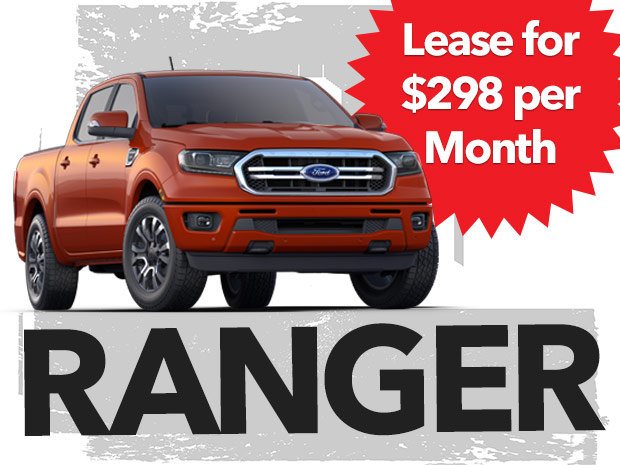
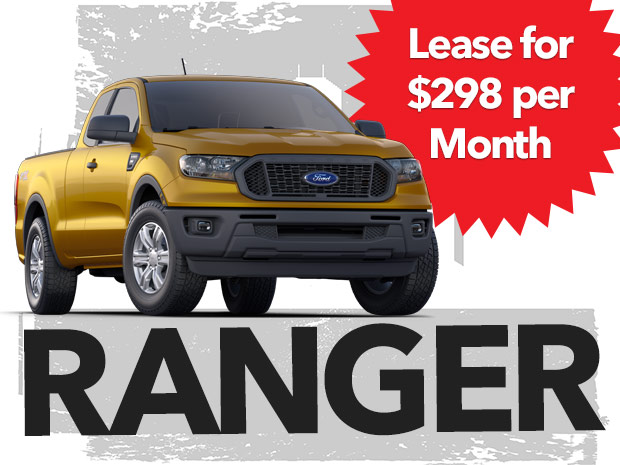
finalizing the newsletter

Changed region(s): [[0.0, 0.0301, 0.95, 0.6925]]

diff --git a/index.php b/index.php
@@ -9,17 +9,7 @@
     <!--[if mso]> <xml> <o:OfficeDocumentSettings> <o:AllowPNG/> <o:PixelsPerInch>96</o:PixelsPerInch> </o:OfficeDocumentSettings> </xml><style>.spacer,.divider{mso-line-height-rule:exactly}td,th,div,p,a,h1,h2,h3,h4,h5,h6{font-size:13px;line-height:23px;font-family:"Segoe UI",Helvetica,Arial,sans-serif}</style><![endif]-->
     <style type="text/css">
       @import url('https://fonts.googleapis.com/css?family=Montserrat:400,500,700|Open+Sans:400,500,700');
-      a {
-      	color: #1779ba;
-      	text-decoration: underline;
-      }
-      a:hover,
-      a:active,
-      a:focus {
-      	color: #1779ba;
-      	text-decoration: underline;
-      }
-      @media only screen{.serif{font-family:'Montserrat',sans-serif!important}.sans-serif{font-family:'Open Sans',sans-serif!important}.column,th,td,div,p{font-family:-apple-system,system-ui,BlinkMacSystemFont,"Segoe UI","Roboto",Helvetica,Arial,sans-serif}}#outlook a{padding:0}table{border-collapse:collapse}img{border:0;display:block;line-height:100%}.column,th,td,div,p{font-size:13px;line-height:23px}.wrapper{min-width:700px}.row{margin:0 auto;width:700px}.row .row, th .row{width:100%}.menu-item{display:inline-block}.hover-shrink:hover{transform:scale(0.7)}@media only screen and (max-width: 699px){table.button{margin:0 !important}.spacer.tagline{font-size:32px !important;text-align:center !important;padding-top:24px !important}.footer-logo{margin:0 auto !important}.wrapper{min-width:100% !important}.row{width:90% !important}.row .row{width:100% !important}.column{box-sizing:border-box;display:inline-block !important;line-height:inherit !important;width:100% !important;text-align:left !important;word-break:break-word;-webkit-text-size-adjust:100%}.mobile-1{max-width:8.33333%}.mobile-2{max-width:16.66667%}.mobile-3{max-width:25%}.mobile-4{max-width:33.33333%}.mobile-5{max-width:41.66667%}.mobile-6{max-width:50%}.mobile-7{max-width:58.33333%}.mobile-8{max-width:66.66667%}.mobile-9{max-width:75%}.mobile-10{max-width:83.33333%}.mobile-11{max-width:91.66667%}.mobile-12{padding-right:30px !important;padding-left:30px !important}.mobile-offset-1{margin-left:8.33333% !important}.mobile-offset-2{margin-left:16.66667% !important}.mobile-offset-3{margin-left:25% !important}.mobile-offset-4{margin-left:33.33333% !important}.mobile-offset-5{margin-left:41.66667% !important}.mobile-offset-6{margin-left:50% !important}.mobile-offset-7{margin-left:58.33333% !important}.mobile-offset-8{margin-left:66.66667% !important}.mobile-offset-9{margin-left:75% !important}.mobile-offset-10{margin-left:83.33333% !important}.mobile-offset-11{margin-left:91.66667% !important}.has-columns{padding-right:20px !important;padding-left:20px !important}.has-columns .column{padding-right:10px !important;padding-left:10px !important}.mobile-collapsed .column{padding-left:0 !important;padding-right:0 !important}img{width:100% !important;height:auto !important}.mobile-center{display:table !important;float:none;margin-left:auto !important;margin-right:auto !important}.mobile-left{float:none;margin:0 !important}.mobile-text-center{text-align:center !important}.mobile-text-left{text-align:left !important}.mobile-text-right{text-align:right !important}.show-on-mobile{display:table !important;overflow:visible !important;line-height:inherit !important}.hide-on-mobile{display:none !important;width:0;overflow:hidden}.mobile-full-width{display:table;width:100% !important}.mobile-first{display:table-header-group !important}.mobile-intermediate{display:table-row !important}.mobile-last{display:table-footer-group !important}.mobile-first th, .mobile-intermediate th, .mobile-last th{padding-left:30px !important;padding-right:30px !important}.menu[align="center"],.menu.mobile-center{width:auto !important}.menu-item{width:auto !important;display:inline-block !important;padding:0 10px 0 !important}.menu.mobile-vertical .menu-item{display:block !important;padding:0 0 15px 0 !important}.hamburger-menu,.accordion-content{max-height:0;overflow:hidden;position:relative;-ms-transition:max-height .25s ease-in-out;-webkit-transition:max-height .25s ease-in-out;transition:max-height .25s ease-in-out}.menu-trigger img{display:block;margin:0 auto !important;float:none !important;max-height:none !important}.menu-trigger:hover+.hamburger-menu,.hamburger-menu:hover{max-height:300px}.accordion-item:hover .accordion-content{max-height:999px}u ~ div .wrapper .menu-trigger img{display:none}u ~ div .wrapper .hamburger-menu, u ~ div .wrapper .accordion-content{max-height:none}u ~ div .wrapper .menu .menu-item{display:inline-block !important;padding:0 10px !important}u ~ div .wrapper .menu.mobile-vertical .menu-item{display:block !important}.h1{font-size:42px !important}.h2{font-size:28px !important}.h3{font-size:16px !important}.spacer{height:30px;line-height:100% !important;font-size:100% !important}.divider th{height:60px}.mobile-padding-top{padding-top:30px !important}.mobile-padding-top-mini{padding-top:10px !important}.mobile-padding-bottom{padding-bottom:30px !important}.mobile-padding-bottom-mini{padding-bottom:10px !important}.mobile-margin-top{margin-top:30px !important}.mobile-margin-top-mini{margin-top:10px !important}.mobile-margin-bottom{margin-bottom:30px !important}.mobile-margin-bottom-mini{margin-bottom:10px !important}.no-border-on-mobile{border:none !important}.overlay-bg{display:none !important}}
+      a{color:#1779ba;text-decoration:underline}a:hover,a:active,a:focus{color:#1779ba;text-decoration:underline}@media only screen{.serif{font-family:'Montserrat',sans-serif!important}.sans-serif{font-family:'Open Sans',sans-serif!important}.column,th,td,div,p{font-family:-apple-system,system-ui,BlinkMacSystemFont,"Segoe UI","Roboto",Helvetica,Arial,sans-serif}}#outlook a{padding:0}table{border-collapse:collapse}img{border:0;display:block;line-height:100%}.column,th,td,div,p{font-size:13px;line-height:23px}.wrapper{min-width:700px}.row{margin:0 auto;width:700px}.row .row, th .row{width:100%}.menu-item{display:inline-block}.hover-shrink:hover{transform:scale(0.7)}@media only screen and (max-width: 699px){table.button{margin:0 !important}.spacer.tagline{font-size:32px !important;text-align:center !important;padding-top:24px !important}.footer-logo{margin:0 auto !important}.wrapper{min-width:100% !important}.row{width:90% !important}.row .row{width:100% !important}.column{box-sizing:border-box;display:inline-block !important;line-height:inherit !important;width:100% !important;text-align:left !important;word-break:break-word;-webkit-text-size-adjust:100%}.mobile-1{max-width:8.33333%}.mobile-2{max-width:16.66667%}.mobile-3{max-width:25%}.mobile-4{max-width:33.33333%}.mobile-5{max-width:41.66667%}.mobile-6{max-width:50%}.mobile-7{max-width:58.33333%}.mobile-8{max-width:66.66667%}.mobile-9{max-width:75%}.mobile-10{max-width:83.33333%}.mobile-11{max-width:91.66667%}.mobile-12{padding-right:30px !important;padding-left:30px !important}.mobile-offset-1{margin-left:8.33333% !important}.mobile-offset-2{margin-left:16.66667% !important}.mobile-offset-3{margin-left:25% !important}.mobile-offset-4{margin-left:33.33333% !important}.mobile-offset-5{margin-left:41.66667% !important}.mobile-offset-6{margin-left:50% !important}.mobile-offset-7{margin-left:58.33333% !important}.mobile-offset-8{margin-left:66.66667% !important}.mobile-offset-9{margin-left:75% !important}.mobile-offset-10{margin-left:83.33333% !important}.mobile-offset-11{margin-left:91.66667% !important}.has-columns{padding-right:20px !important;padding-left:20px !important}.has-columns .column{padding-right:10px !important;padding-left:10px !important}.mobile-collapsed .column{padding-left:0 !important;padding-right:0 !important}img{width:100% !important;height:auto !important}.mobile-center{display:table !important;float:none;margin-left:auto !important;margin-right:auto !important}.mobile-left{float:none;margin:0 !important}.mobile-text-center{text-align:center !important}.mobile-text-left{text-align:left !important}.mobile-text-right{text-align:right !important}.show-on-mobile{display:table !important;overflow:visible !important;line-height:inherit !important}.hide-on-mobile{display:none !important;width:0;overflow:hidden}.mobile-full-width{display:table;width:100% !important}.mobile-first{display:table-header-group !important}.mobile-intermediate{display:table-row !important}.mobile-last{display:table-footer-group !important}.mobile-first th, .mobile-intermediate th, .mobile-last th{padding-left:30px !important;padding-right:30px !important}.menu[align="center"],.menu.mobile-center{width:auto !important}.menu-item{width:auto !important;display:inline-block !important;padding:0 10px 0 !important}.menu.mobile-vertical .menu-item{display:block !important;padding:0 0 15px 0 !important}.hamburger-menu,.accordion-content{max-height:0;overflow:hidden;position:relative;-ms-transition:max-height .25s ease-in-out;-webkit-transition:max-height .25s ease-in-out;transition:max-height .25s ease-in-out}.menu-trigger img{display:block;margin:0 auto !important;float:none !important;max-height:none !important}.menu-trigger:hover+.hamburger-menu,.hamburger-menu:hover{max-height:300px}.accordion-item:hover .accordion-content{max-height:999px}u ~ div .wrapper .menu-trigger img{display:none}u ~ div .wrapper .hamburger-menu, u ~ div .wrapper .accordion-content{max-height:none}u ~ div .wrapper .menu .menu-item{display:inline-block !important;padding:0 10px !important}u ~ div .wrapper .menu.mobile-vertical .menu-item{display:block !important}.h1{font-size:42px !important}.h2{font-size:28px !important}.h3{font-size:16px !important}.spacer{height:30px;line-height:100% !important;font-size:100% !important}.divider th{height:60px}.mobile-padding-top{padding-top:30px !important}.mobile-padding-top-mini{padding-top:10px !important}.mobile-padding-bottom{padding-bottom:30px !important}.mobile-padding-bottom-mini{padding-bottom:10px !important}.mobile-margin-top{margin-top:30px !important}.mobile-margin-top-mini{margin-top:10px !important}.mobile-margin-bottom{margin-bottom:30px !important}.mobile-margin-bottom-mini{margin-bottom:10px !important}.no-border-on-mobile{border:none !important}.overlay-bg{display:none !important}}
     </style>
   </head>
   <body style="box-sizing:border-box;margin:0;padding:0;width:100%;-webkit-font-smoothing:antialiased;">
@@ -104,7 +94,7 @@
                     <th valign="top" class="column" width="310" style="padding-right: 10px; font-weight: 400; text-align: left;">
                       <div style="margin-bottom: 20px;">
                         <a href="https://www.freewayford.net/newspecials.html" target="_blank">
-                          <img src="http://placehold.it/1024x768" alt="Visa gift card with $500.00 holiday cash." width="310" style="border: 0; width: 100%; max-width: 310px;">
+                          <img src="./images/f150.jpg" alt="F150 XLT" width="310" style="border: 0; width: 100%; max-width: 310px;">
                         </a>
                       </div> <a class="serif" href="https://www.freewayford.net/newspecials.html" target="_blank" style="color: #3b5a6e; font-size: 18px; font-weight: 400; line-height: 1.5; text-decoration: none;"><span style="color: #b01b15;font-size: 24px; font-weight: 500;">OHDOMETER!</span><br>The Ford F150 XLT takes mud and crud with a shrug. It outhauls outsmarts, and outlives the competition — there are more F150s on the road with 250,000 miles+ of bragging rights than any other brand. Oh yeah!</a>
                       <br>
@@ -125,7 +115,7 @@
                     <th valign="top" class="column" width="310" style="padding-left: 10px; font-weight: 400; text-align: left;">
                       <div style="margin-bottom: 20px;">
                         <a href="https://www.freewayford.net/newspecials.html" target="_blank">
-                          <img src="http://placehold.it/1024x768" alt="Key fob and car key wrapped in a red ribbon." width="310" style="border: 0; width: 100%; max-width: 310px;">
+                          <img src="./images/ranger.jpg" alt="Ranger" width="310" style="border: 0; width: 100%; max-width: 310px;">
                         </a>
                       </div> <a class="serif" href="https://www.freewayford.net/newspecials.html" target="_blank" style="color: #3b5a6e; font-size: 18px; font-weight: 400; line-height: 1.5; text-decoration: none;"><span style="color: #b01b15;font-size: 24px; font-weight: 500;">OFF THE GRID</span><br>The 2020 Ford Ranger 4X4 paves the way off the beaten path. It’s built for rugged adventure and has got the grit to leave the grid behind. Nevertheless, it has the latest and greatest tech to keep you tethered – if you so choose.</a>
                       <br>
@@ -150,7 +140,7 @@
                     <th valign="top" class="column mobile-padding-bottom" width="310" style="padding-right: 10px; font-weight: 400; text-align: left;">
                       <div style="margin-bottom: 20px;">
                         <a href="https://www.freewayford.net/newspecials.html" target="_blank">
-                          <img src="http://placehold.it/1024x768" alt="2019 Ford Escape - Starting at $18,995.00." width="310" style="border: 0; width: 100%; max-width: 310px;">
+                          <img src="./images/fusion.jpg" alt="Fusion" width="310" style="border: 0; width: 100%; max-width: 310px;">
                         </a>
                       </div> <a class="serif" href="https://www.freewayford.net/newspecials.html" target="_blank" style="color: #3b5a6e; font-size: 18px; font-weight: 400; line-height: 1.5; text-decoration: none;"><span style="color: #b01b15;font-size: 24px; font-weight: 500;">HEIGHTEND SENSES</span><br>The 2020 Fusion HYBRID boasts automatic Spidey safety senses. It’s equipped with Standard Ford Co-Pilot360™ that spins a web of protection around driver and passengers with blind spot and pre-collision assist and more.</a>
                       <br>
@@ -170,7 +160,7 @@
                     <th valign="top" class="column" width="310" style="padding-left: 10px; font-weight: 400; text-align: left;">
                       <div style="margin-bottom: 20px;">
                         <a href="https://www.freewayford.net/newspecials.html" target="_blank">
-                          <img src="http://placehold.it/1024x768" alt="Bronco turntable for $129.95." width="310" style="border: 0; width: 100%; max-width: 310px;">
+                          <img src="./images/escape.jpg" alt="Escape" width="310" style="border: 0; width: 100%; max-width: 310px;">
                         </a>
                       </div> <a class="serif" href="https://www.freewayford.net/newspecials.html" target="_blank" style="color: #3b5a6e; font-size: 18px; font-weight: 400; line-height: 1.5; text-decoration: none;"><span style="color: #b01b15;font-size: 24px; font-weight: 500;">UP FOR ANYTHING</span><br>The 2020 Escape is always ready for another other. Whether that other is a weekend getaway or a workday commute, this SUV comes standard with plenty of added fun extras. It’s guaranteed to show you the way out of a boring rut.</a>
                       <br>
@@ -195,7 +185,7 @@
                     <th valign="top" class="column mobile-padding-bottom" width="310" style="padding-right: 10px; font-weight: 400; text-align: left;">
                       <div style="margin-bottom: 20px;">
                         <a href="tel:+18443398293" target="_blank">
-                          <img src="http://placehold.it/1024x768" alt="2019 Ford F150 - Starting at $30,995.00." width="310" style="border: 0; width: 100%; max-width: 310px;">
+                          <img src="./images/service.jpg" alt="Parts" width="310" style="border: 0; width: 100%; max-width: 310px;">
                         </a>
                       </div> <a class="serif" href="tel:+18443398293" target="_blank" style="color: #3b5a6e; font-size: 18px; font-weight: 400; line-height: 1.5; text-decoration: none;"><span style="color: #b01b15;font-size: 24px; font-weight: 500;">TRACTION FACTION</span><br>Ditch the worn out treads. Buy any tires at just $5.00 over dealer cost. Offer good through March 31st.</a>
                       <br>
@@ -215,7 +205,7 @@
                     <th valign="top" class="column" width="310" style="padding-left: 10px; font-weight: 400; text-align: left;">
                       <div style="margin-bottom: 20px;">
                         <a href="https://www.freewayford.net/ford-service.aspx" target="_blank">
-                          <img src="http://placehold.it/1024x768" alt="Thermos® stainless king travel set for $119.95." width="310" style="border: 0; width: 100%; max-width: 310px;">
+                          <img src="./images/parts.jpg" alt="Service" width="310" style="border: 0; width: 100%; max-width: 310px;">
                         </a>
                       </div> <a class="serif" href="https://www.freewayford.net/ford-service.aspx" target="_blank" style="color: #3b5a6e; font-size: 18px; font-weight: 400; line-height: 1.5; text-decoration: none;"><span style="color: #b01b15;font-size: 24px; font-weight: 500;">LATER CRATER</span><br>Show potholes no mercy. Get The Works Package – just $49.95! Package includes tires rotation, pressure check, brake inspection battery test, belt check and oil and filter.</a>
                       <br>
@@ -235,35 +225,6 @@
               <td class="spacer" height="32" style="font-size: 32px; line-height: 32px; mso-line-height-rule: exactly;">&nbsp;</td>
             </tr>
           </table>
-          <!-- VISA GIFT CARD IMAGE -->
-          <!-- <table class="row" align="center" cellpadding="0" cellspacing="0">
-            <tr>
-              <th aria-label="Wish List" class="column mobile-12" width="700" height="0" bgcolor="#1F2225" background="./images/gift-card.jpg" style="padding-bottom: 56.25%;font-weight: 400; background-repeat: no-repeat; background-position: center center; background-size: cover; border-bottom:1px solid #eaeaea;border-top:1px solid #eaeaea;"> -->
-                <!--[if gte mso 9]> <v:image src="./images/gift-card.jpg" style="width:700px;height:500px;" /> <v:rect fill="true" stroke="false" style="position:absolute;width:700px;height:500px;"> <v:fill opacity="0"><div> <![endif]-->
-                <!--[if gte mso 9]></div></v:fill></v:rect><![endif]-->
-              <!-- </th>
-            </tr>
-          </table> -->
-          <!-- VISA GIFT CARD COPY -->
-          <!-- <table class="row" align="center" bgcolor="#F8F8F8" cellpadding="0" cellspacing="0">
-            <tr>
-              <td class="spacer" height="32" style="font-size: 32px; line-height: 32px; mso-line-height-rule: exactly;">&nbsp;</td>
-            </tr>
-            <tr>
-              <th class="column" width="640" style="padding-left: 30px; padding-right: 30px; color: #333; font-weight: 400; text-align: left;">
-              	<div class="sans-serif" style="font-size: 30px; line-height: 1.5; color: #b01b15; margin-bottom: 16px;">Cash In A Flash</div>
-                <div class="sans-serif" style="margin-bottom: 30px; font-size: 16px;">Enjoy some extra cash FAST. We’ll give you a <strong>$500 VISA GIFT CARD</strong> with your trade and up to 110% of Kelley Blue Book value.</div>
-                <table bgcolor="#3b5a6e" cellpadding="0" cellspacing="0" style="border-radius: 3px;">
-									<tr>
-										<th class="sans-serif"> <a href="https://www.freewayford.net" target="_blank" style="border: 0 solid #3b5a6e; color: #FFFFFF; display: inline-block; font-size: 14px; font-weight: 400; padding: 15px 50px 15px 50px; text-decoration: none;">Shop Now</a>
-										</th>
-									</tr>
-								</table>
-                <br/>
-              </th>
-            </tr>
-            <tr></tr>
-          </table> -->
           <!-- FOOTER -->
           <table class="row" align="center" bgcolor="#222" cellpadding="0" cellspacing="0">
             <tr>
